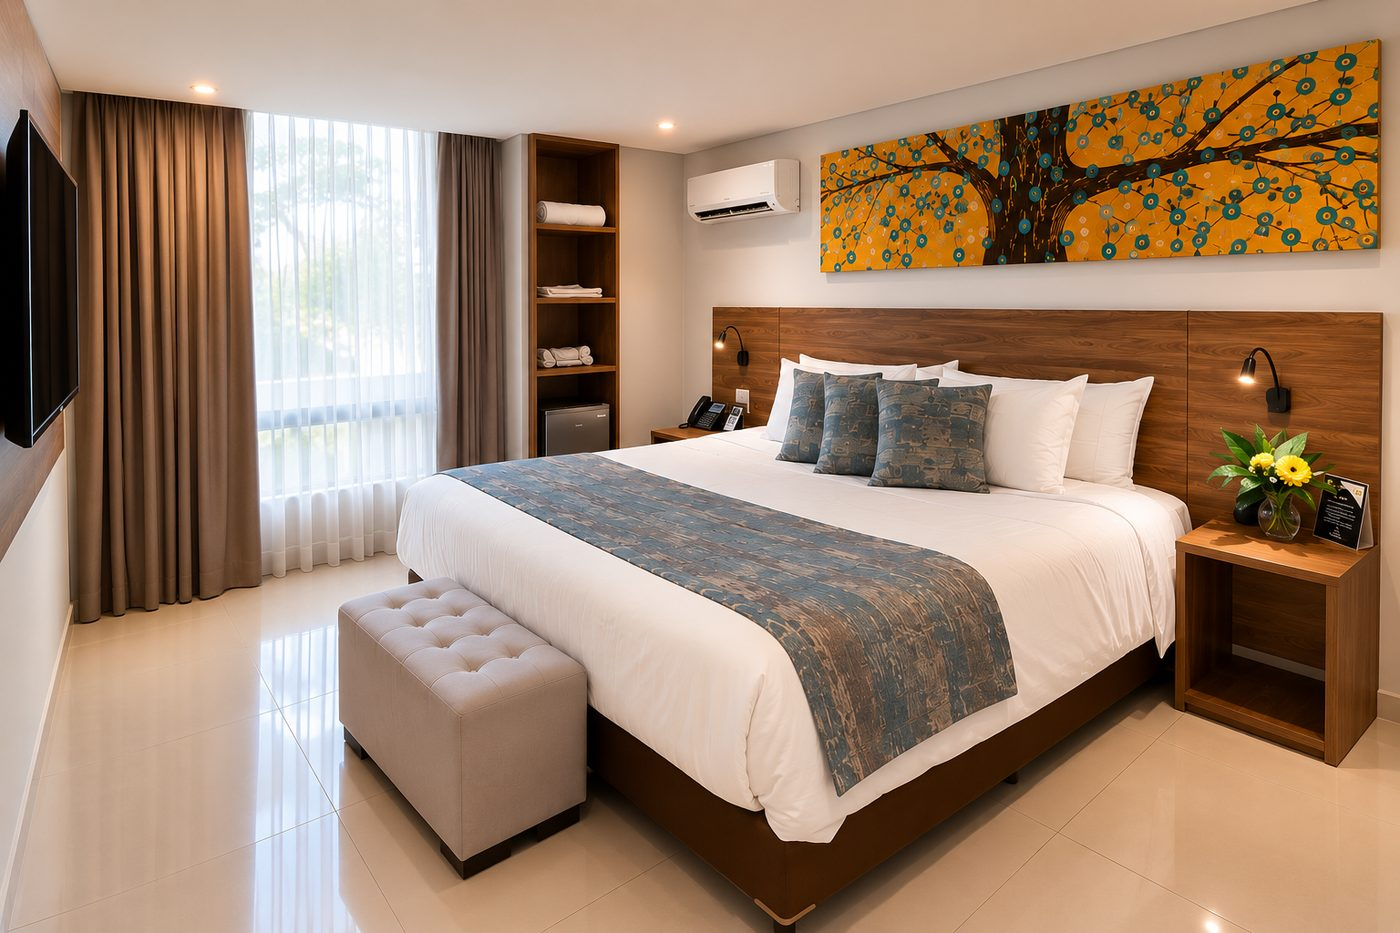
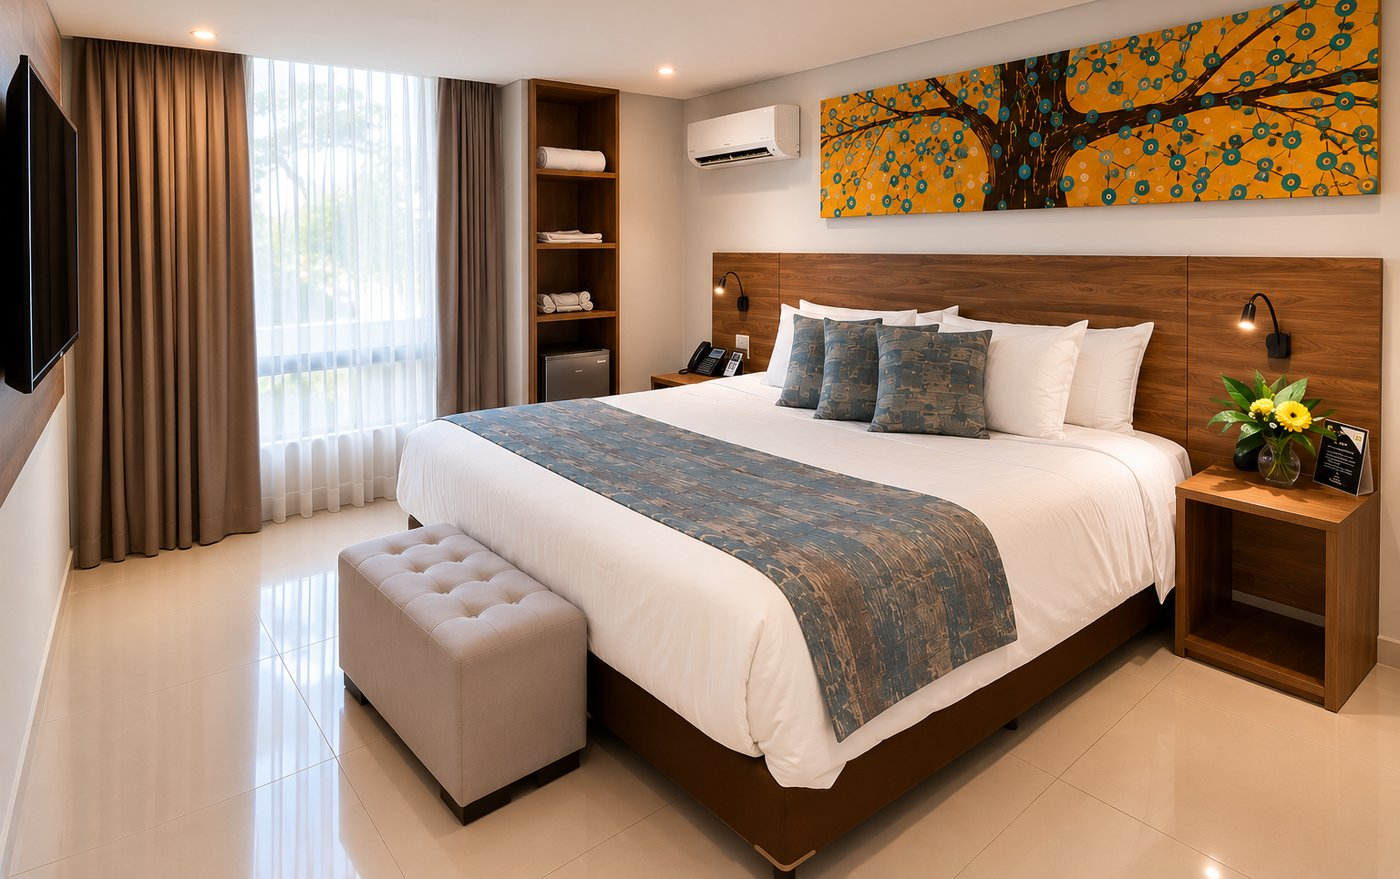
Nueva curva de interseccion tipo arco en el hero, foto actualizada

diff --git a/src/components/home/MenuGrid.tsx b/src/components/home/MenuGrid.tsx
@@ -1,22 +1,19 @@
 "use client";
 
 import Link from "next/link";
+import type { SVGProps } from "react";
 import { motion } from "framer-motion";
+import { MessageCircle, Star, ChevronRight } from "lucide-react";
 import {
-  Compass,
-  BookOpenText,
-  BellRing,
-  Wifi,
-  CupSoda,
-  UtensilsCrossed,
-  ShoppingBag,
-  Sparkles,
-  MapPinned,
-  MessageCircle,
-  Star,
-  ChevronRight,
-  type LucideIcon,
-} from "lucide-react";
+  HotelIcon,
+  RoomGuideIcon,
+  ServiceBellIcon,
+  WifiIcon,
+  MinibarIcon,
+  BoutiqueBagIcon,
+  SparkleServiceIcon,
+  DiscoverPinIcon,
+} from "@/components/ui/HomeIcons";
 import { buildWhatsappLink } from "@/lib/whatsapp";
 import { GOOGLE_REVIEW_URL } from "@/lib/config";
 
@@ -25,22 +22,23 @@ type MenuAction = { type: "link"; href: string } | { type: "whatsapp"; message: 
 type MenuEntry = {
   id: string;
   label: string;
-  icon: LucideIcon;
+  icon: React.ComponentType<SVGProps<SVGSVGElement>>;
   action: MenuAction;
 };
 
-// Los 9 accesos que forman la grilla 3x3, en el orden solicitado. El hero
-// de bienvenida vive aparte (WelcomeHero).
+// Los 9 accesos que forman la grilla 3x3, en el orden solicitado, con
+// íconos propios en línea fina (ver /components/ui/HomeIcons.tsx) en vez
+// de los genéricos de Lucide. El hero de bienvenida vive aparte.
 const gridEntries: MenuEntry[] = [
-  { id: "hotel", label: "Hotel", icon: Compass, action: { type: "link", href: "/guia-hotel" } },
-  { id: "guia-habitacion", label: "Guía habitación", icon: BookOpenText, action: { type: "link", href: "/guia" } },
-  { id: "servicio", label: "Solicitar servicio", icon: BellRing, action: { type: "link", href: "/servicio" } },
-  { id: "wifi", label: "WiFi", icon: Wifi, action: { type: "link", href: "/wifi" } },
-  { id: "minibar", label: "Minibar", icon: CupSoda, action: { type: "link", href: "/minibar" } },
-  { id: "restaurante", label: "Restaurante", icon: UtensilsCrossed, action: { type: "link", href: "/restaurante" } },
-  { id: "boutique", label: "Boutique", icon: ShoppingBag, action: { type: "link", href: "/boutique" } },
-  { id: "experiencias", label: "Servicios y experiencias", icon: Sparkles, action: { type: "link", href: "/experiencias" } },
-  { id: "descubre", label: "Descubre Cali", icon: MapPinned, action: { type: "link", href: "/descubre" } },
+  { id: "hotel", label: "Hotel", icon: HotelIcon, action: { type: "link", href: "/guia-hotel" } },
+  { id: "guia-habitacion", label: "Guía habitación", icon: RoomGuideIcon, action: { type: "link", href: "/guia" } },
+  { id: "servicio", label: "Solicitar servicio", icon: ServiceBellIcon, action: { type: "link", href: "/servicio" } },
+  { id: "wifi", label: "WiFi", icon: WifiIcon, action: { type: "link", href: "/wifi" } },
+  { id: "minibar", label: "Minibar", icon: MinibarIcon, action: { type: "link", href: "/minibar" } },
+  { id: "restaurante", label: "Restaurante", icon: ServiceBellIcon, action: { type: "link", href: "/restaurante" } },
+  { id: "boutique", label: "Boutique", icon: BoutiqueBagIcon, action: { type: "link", href: "/boutique" } },
+  { id: "experiencias", label: "Servicios y experiencias", icon: SparkleServiceIcon, action: { type: "link", href: "/experiencias" } },
+  { id: "descubre", label: "Descubre Cali", icon: DiscoverPinIcon, action: { type: "link", href: "/descubre" } },
 ];
 
 function renderAction(action: MenuAction, children: React.ReactNode, key: string) {
@@ -72,11 +70,9 @@ export default function MenuGrid() {
               animate={{ opacity: 1, y: 0 }}
               transition={{ duration: 0.4, delay: 0.06 * i, ease: "easeOut" }}
               whileTap={{ scale: 0.95 }}
-              className="flex h-24 flex-col items-center justify-center gap-1.5 rounded-2xl bg-white px-1.5 py-2.5 text-center shadow-[var(--shadow-card)]"
+              className="flex h-28 flex-col items-center justify-center gap-2 rounded-2xl bg-white px-1.5 py-3 text-center shadow-[var(--shadow-card)]"
             >
-              <span className="flex h-9 w-9 items-center justify-center rounded-full bg-[var(--color-sand)] text-[var(--color-navy)]">
-                <Icon size={17} strokeWidth={1.75} />
-              </span>
+              <Icon className="h-10 w-10 text-[var(--color-gold)]" />
               <span className="text-[13px] font-medium leading-tight text-[var(--color-navy)]">
                 {entry.label}
               </span>

diff --git a/src/components/home/WelcomeHero.tsx b/src/components/home/WelcomeHero.tsx
@@ -3,35 +3,50 @@
 import Image from "next/image";
 import { motion } from "framer-motion";
 
-// Hero superior: la fotografía se muestra completa, sin ningún recorte ni
-// forma que la tape. Todo el contenido de bienvenida vive superpuesto
-// directamente sobre ella, con un degradado para que se lea bien.
+// Hero superior: la fotografía se recorta con una curva simétrica en forma
+// de arco/pétalo (más foto en los bordes, el beige sube en punta hacia el
+// centro) — el mismo motivo de intersección del boceto de referencia.
 export default function WelcomeHero() {
   return (
     <div
       className="relative w-full overflow-hidden"
-      style={{ height: "calc(400px + env(safe-area-inset-top))" }}
+      style={{ height: "calc(420px + env(safe-area-inset-top))" }}
     >
-      <Image
-        src="/rooms/habitacion-bienvenida.jpg"
-        alt="Habitación de AMBAR Hotel Boutique"
-        fill
-        priority
-        className="object-cover object-[center_68%]"
-      />
       <div
         className="absolute inset-0"
-        style={{
-          background:
-            "linear-gradient(to bottom, transparent 0%, transparent 22%, rgba(5,36,79,0.24) 35%, rgba(5,36,79,0.46) 50%, rgba(5,36,79,0.67) 65%, rgba(5,36,79,0.86) 80%, rgba(5,36,79,0.97) 100%)",
-        }}
-      />
+        style={{ clipPath: "url(#ambarArchClip)" }}
+      >
+        <Image
+          src="/rooms/habitacion-bienvenida.jpg"
+          alt="Habitación de AMBAR Hotel Boutique"
+          fill
+          priority
+          className="object-cover object-[center_60%]"
+        />
+        <div
+          className="absolute inset-0"
+          style={{
+            background:
+              "linear-gradient(to bottom, transparent 0%, transparent 20%, rgba(5,36,79,0.22) 32%, rgba(5,36,79,0.44) 48%, rgba(5,36,79,0.66) 64%, rgba(5,36,79,0.85) 80%, rgba(5,36,79,0.95) 100%)",
+          }}
+        />
+      </div>
+
+      {/* Definición de la curva — objectBoundingBox para que sea responsive
+          en cualquier tamaño de pantalla. */}
+      <svg width="0" height="0" className="absolute">
+        <defs>
+          <clipPath id="ambarArchClip" clipPathUnits="objectBoundingBox">
+            <path d="M0,0 L1,0 L1,0.88 C0.8,0.88 0.66,0.60 0.5,0.60 C0.34,0.60 0.2,0.88 0,0.88 Z" />
+          </clipPath>
+        </defs>
+      </svg>
 
       <motion.div
         initial={{ opacity: 0, y: 14 }}
         animate={{ opacity: 1, y: 0 }}
         transition={{ duration: 0.7, ease: "easeOut" }}
-        className="absolute inset-x-0 bottom-0 flex flex-col items-center gap-2 px-8 pb-9 text-center"
+        className="absolute inset-x-0 bottom-0 flex flex-col items-center gap-2 px-8 pb-10 text-center"
       >
         <p className="font-display italic text-sm text-[var(--color-gold-soft)]">
           Bienvenido a
